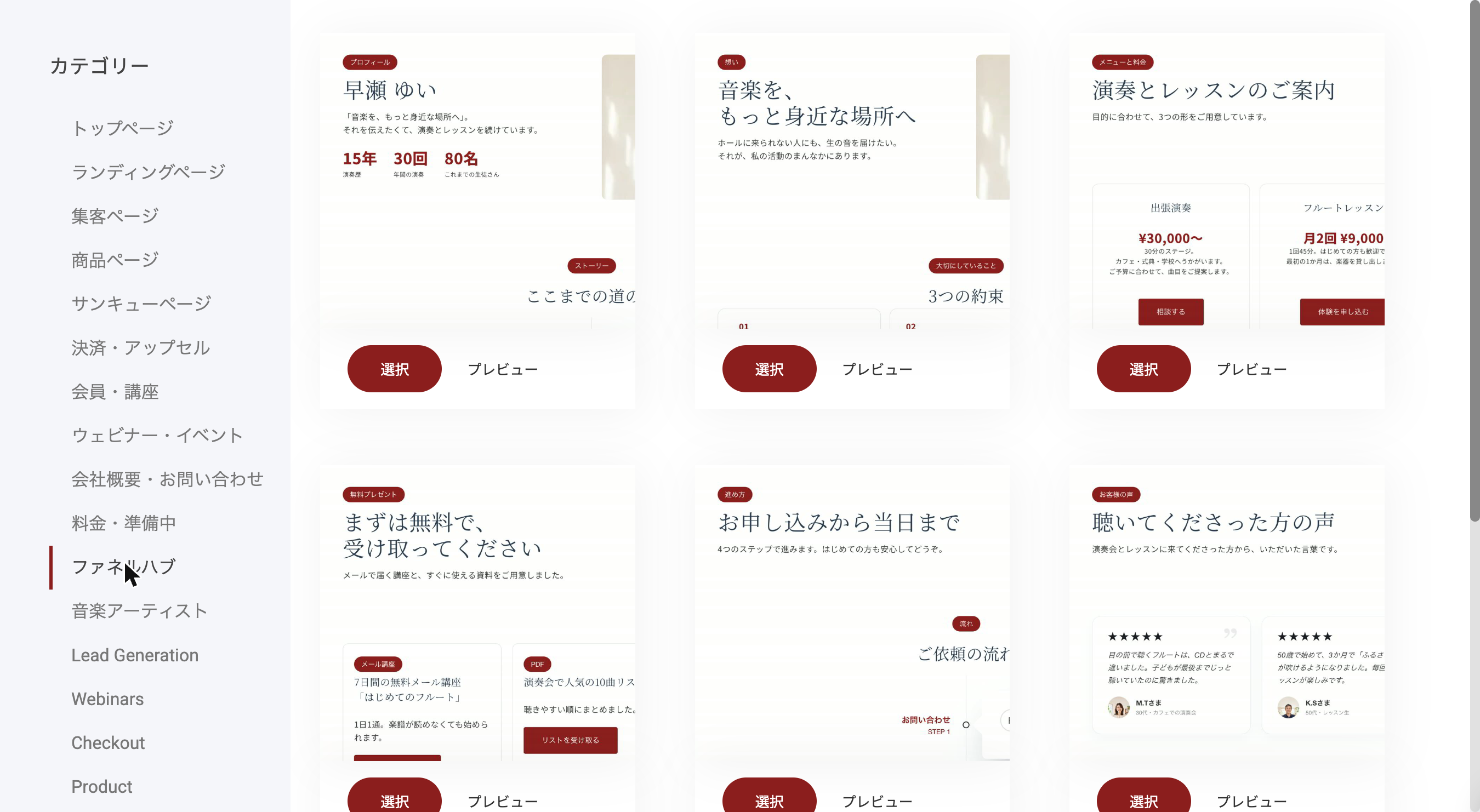
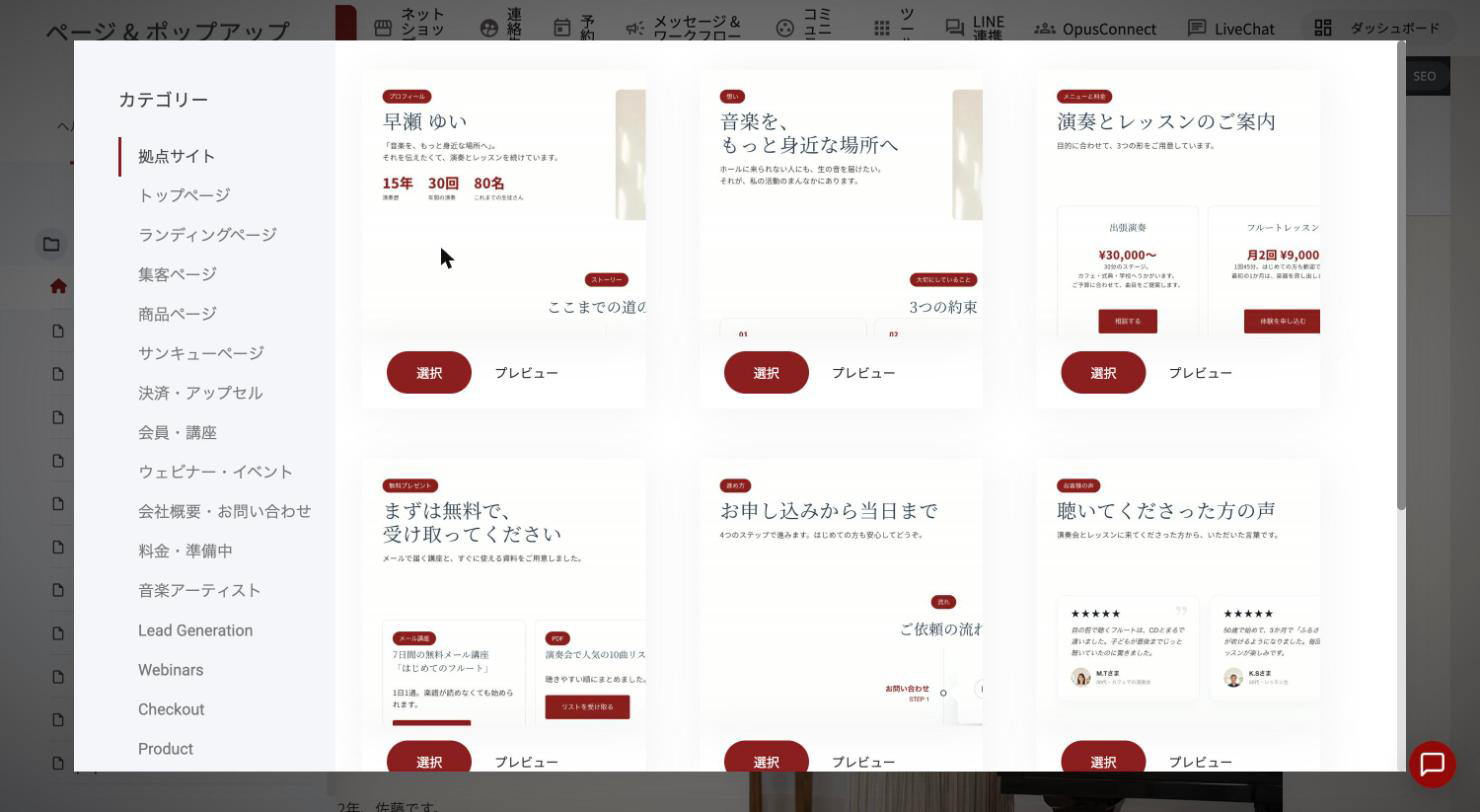
docs: ひな形を選ぶ画面の写真を差し替え、枚数の説明を直す
- カテゴリー名が「拠点サイト」になった画面に差し替え
- カテゴリーに並ぶひな形は7枚（表の6枚と「お試し入会」）

diff --git a/platform/getting-started/grow-from-first-page.md b/platform/getting-started/grow-from-first-page.md
@@ -60,9 +60,9 @@ description: 自己紹介ページ（はじめての1ページ）から始めて
 
 1. 編集画面の左側にある、3本線のアイコンを押して「ページ & ポップアップ」を開きます。
 2. 「**新しく追加する**」を押し、「**ページ**」を選びます。
-3. 左のカテゴリーから「**拠点サイト**」を選びます。6枚のひな形が並びます。
+3. 左のカテゴリーから「**拠点サイト**」を選びます。ひな形が7枚並びます（上の表の6枚と、あとで使う「お試し入会」です）。
 
-<figure><img src="../../.gitbook/assets/grow-add-page-funnelhub.png" alt=""><figcaption><p>カテゴリー「拠点サイト」を選ぶと、6枚のひな形が並びます。</p></figcaption></figure>
+<figure><img src="../../.gitbook/assets/grow-add-page-funnelhub.png" alt=""><figcaption><p>カテゴリー「拠点サイト」を選ぶと、ひな形が並びます。</p></figcaption></figure>
 
 4. 足したいページの「**選択**」を押します。中身を先に見たいときは「プレビュー」を押します。
 5. 「新しいページを追加」の窓で、「**ページ名**」を入れます。「ページのURL」には、`profile` のような短い英語の名前を入れてください。
